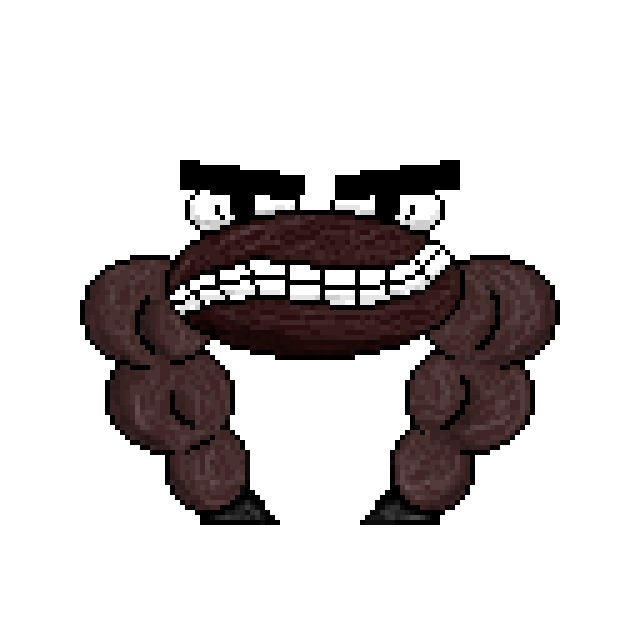
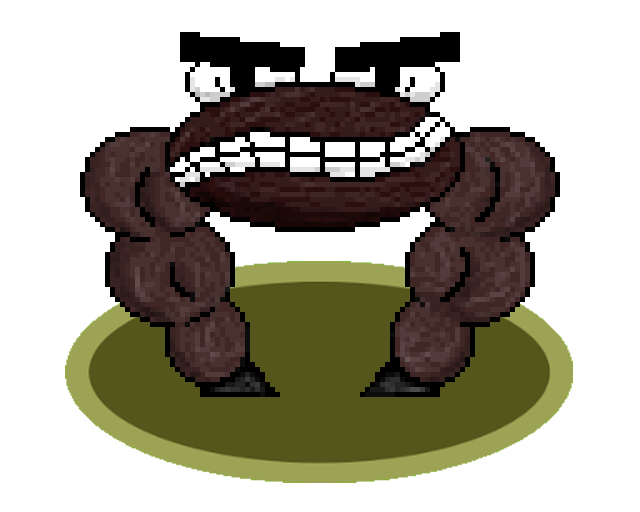
Assets fixed (Put circle below) + Hurt Animation

diff --git a/thesis/lib/main.dart b/thesis/lib/main.dart
@@ -65,8 +65,10 @@ class _MyHomePageState extends State<MyHomePage> {
   String _currentEnemyAssetPath = "Kudango.png";
   String _currentBackground = "Normal_BG.png";
   String _currentEnemyLevel = "Normal Enemy 1";
+  String _EnemyHurt = "Kudango_Hurt.png";
   int _currentEnemyHP = 100;
   int _totalEnemyHP = 100;
+  bool _showEnemyHurt = false;
 
   @override
   void initState() {
@@ -152,8 +154,18 @@ class _MyHomePageState extends State<MyHomePage> {
       }
     } else {
       if (_currentEnemyHP - value > 0) {
+        //If player is correct
         setState(() {
+          _correctAnswerCount++;
           _currentEnemyHP -= value;
+          _showEnemyHurt = true;
+        });
+
+        // Reset _showEnemyHurt after a delay (e.g., 2 seconds).
+        Future.delayed(Duration(seconds: 1), () {
+          setState(() {
+            _showEnemyHurt = false; // Reset _showEnemyHurt after 2 seconds.
+          });
         });
       } else {
         setState(() {
@@ -227,26 +239,116 @@ class _MyHomePageState extends State<MyHomePage> {
           // Define an array of level data where each element is a list
           List<List<String>> levelData = [
             //Level 1
-            ['0', 'Normal_BG.png', 'Kudango.png', 'Normal Enemy 1', '100'],
-            ['1', 'Normal_BG.png', 'Impeach.png', 'Normal Enemy 2', '100'],
-            ['2', 'Normal_BG.png', 'Desserter.png', 'Normal Enemy 3', '100'],
-            ['3', 'MiniBoss_BG.png', 'Autognawta.png', 'Mini Boss 1', '150'],
+            [
+              '0',
+              'Normal_BG.png',
+              'Kudango.png',
+              'Normal Enemy 1',
+              '100',
+              'Kudango_Hurt.png'
+            ],
+            [
+              '1',
+              'Normal_BG.png',
+              'Impeach.png',
+              'Normal Enemy 2',
+              '100',
+              'Impeach_Hurt.png'
+            ],
+            [
+              '2',
+              'Normal_BG.png',
+              'Desserter.png',
+              'Normal Enemy 3',
+              '100',
+              'Desserter_Hurt.png'
+            ],
+            [
+              '3',
+              'MiniBoss_BG.png',
+              'Autognawta.png',
+              'Mini Boss 1',
+              '150',
+              'Kudango_hurt.png'
+            ],
             //Level 2
-            ['4', 'Normal_BG.png', 'Kudango.png', 'Normal Enemy 4', '100'],
-            ['5', 'Normal_BG.png', 'Impeach.png', 'Normal Enemy 5', '100'],
-            ['6', 'Normal_BG.png', 'Desserter.png', 'Normal Enemy 6', '100'],
-            ['7', 'MiniBoss_BG.png', 'Norxnor.png', 'Mini Boss 2', '150'],
+            [
+              '4',
+              'Normal_BG.png',
+              'Kudango.png',
+              'Normal Enemy 4',
+              '100',
+              'Kudango_hurt.png'
+            ],
+            [
+              '5',
+              'Normal_BG.png',
+              'Impeach.png',
+              'Normal Enemy 5',
+              '100',
+              'Kudango_hurt.png'
+            ],
+            [
+              '6',
+              'Normal_BG.png',
+              'Desserter.png',
+              'Normal Enemy 6',
+              '100',
+              'Kudango_hurt.png'
+            ],
+            [
+              '7',
+              'MiniBoss_BG.png',
+              'Norxnor.png',
+              'Mini Boss 2',
+              '150',
+              'Kudango_hurt.png'
+            ],
             //Level 3
-            ['8', 'Normal_BG.png', 'Kudango.png', 'Normal Enemy 7', '100'],
-            ['9', 'Normal_BG.png', 'Impeach.png', 'Normal Enemy 8', '100'],
-            ['10', 'Normal_BG.png', 'Desserter.png', 'Normal Enemy 9', '100'],
-            ['11', 'MiniBoss_BG.png', 'Buffine.png', 'Mini Boss 3', '150'],
-            ['12', 'FinalBoss_BG.png', 'Ichig_Front.png', 'Final Boss', '200'],
+            [
+              '8',
+              'Normal_BG.png',
+              'Kudango.png',
+              'Normal Enemy 7',
+              '100',
+              'Kudango_hurt.png'
+            ],
+            [
+              '9',
+              'Normal_BG.png',
+              'Impeach.png',
+              'Normal Enemy 8',
+              '100',
+              'Kudango_hurt.png'
+            ],
+            [
+              '10',
+              'Normal_BG.png',
+              'Desserter.png',
+              'Normal Enemy 9',
+              '100',
+              'Kudango_hurt.png'
+            ],
+            [
+              '11',
+              'MiniBoss_BG.png',
+              'Buffine.png',
+              'Mini Boss 3',
+              '150',
+              'Kudango_hurt.png'
+            ],
+            [
+              '12',
+              'FinalBoss_BG.png',
+              'Buffine.png',
+              'Final Boss',
+              '200',
+              'Chairnine.png'
+            ],
             // Add more levels as needed
           ];
 
           if (_levelNum < levelData.length) {
-            // Check if _levelNum is within the bounds of levelData
             List<String> currentLevelData = levelData[_levelNum];
             _levelNum = int.parse(currentLevelData[0]);
             _currentBackground = currentLevelData[1];
@@ -254,6 +356,7 @@ class _MyHomePageState extends State<MyHomePage> {
             _currentEnemyLevel = currentLevelData[3];
             _currentEnemyHP = int.parse(currentLevelData[4]);
             _totalEnemyHP = int.parse(currentLevelData[4]);
+            _EnemyHurt = currentLevelData[5];
           } else {
             // Handle cases beyond the length of levelData
             // (e.g., you can set default values or handle it as needed)
@@ -370,11 +473,20 @@ class _MyHomePageState extends State<MyHomePage> {
                   crossAxisAlignment: CrossAxisAlignment.stretch,
                   children: [
                     Expanded(
-                      child: Container(
-                        margin: EdgeInsets.only(left: 150.0),
-                        child: Image.asset(
-                          "assets/$_currentEnemyAssetPath", // Use the current image path
-                        ),
+                      child: Row(
+                        crossAxisAlignment: CrossAxisAlignment.stretch,
+                        children: [
+                          Expanded(
+                            child: Container(
+                              margin: EdgeInsets.only(left: 150.0),
+                              child: Image.asset(
+                                _showEnemyHurt
+                                    ? "assets/$_EnemyHurt"
+                                    : "assets/$_currentEnemyAssetPath",
+                              ),
+                            ),
+                          ),
+                        ],
                       ),
                     ),
                   ],
